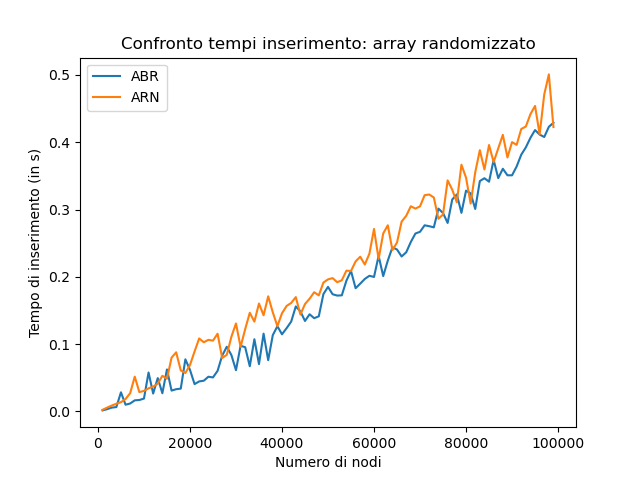
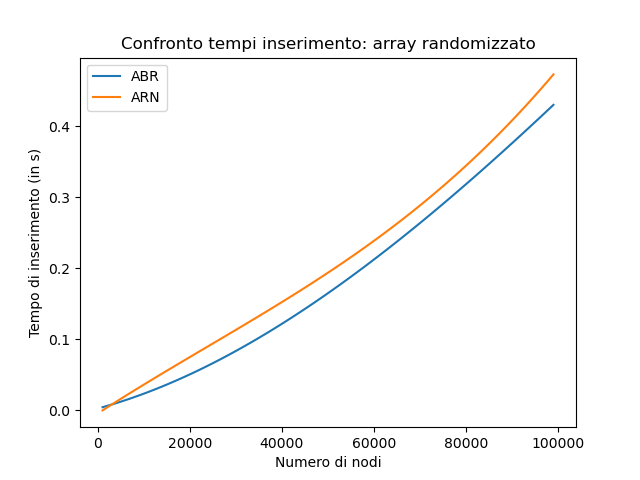
update test

diff --git a/src/test.py b/src/test.py
@@ -11,14 +11,14 @@ def insertion_test(t, keys, n):
     for j in range(n):
         t.insert(keys[j])
     end = timer()
-    return round(end - start, 8)
+    return round(end - start, 4)
 
 
 def search_test(t, key):
     start = timer()
     t.find(key)
     end = timer()
-    return round(end - start, 8)
+    return round(end - start, 6)
 
 
 def spline(x, y, p=2.0):  # implementazione bspline al fine di approssimare l'andamento dei grafici
@@ -36,17 +36,6 @@ def exp_moving_averages(array):
         ma.append(window_average)
     array = ma
     return array
-
-
-def moving_averages(array):  # implementazione media mobile cumulativa
-    i = 1
-    ma = []
-    cum_sum = np.cumsum(array)
-    while i <= len(array):
-        window_average = round(cum_sum[i - 1] / i, 2)  # finestra di calcolo della media
-        ma.append(window_average)
-        i += 1  # shift della finestra di uno a destra
-    return ma
 
 
 def test(shuffle=False, m=100, nn=100):
@@ -78,16 +67,12 @@ def test(shuffle=False, m=100, nn=100):
 
         insertion = exp_moving_averages(ins_time)
         insertion_rb = exp_moving_averages(ins_rb_time)
-        s = exp_moving_averages(search_time)
-        s_rb = exp_moving_averages(search_rb_time)
-        h = exp_moving_averages(height)
-        h_rb = exp_moving_averages(height_rb)
 
     x = np.arange(1, len(ins_time) + 1) * nn
 
     plot_1 = plt.figure(1)
-    plt.plot(x ,spline(x, insertion, 0.005))
-    plt.plot(x ,spline(x, insertion_rb, 0.005))
+    plt.plot(x, spline(x, insertion))
+    plt.plot(x, spline(x, insertion_rb))
     plt.xlabel("Numero di nodi")
     plt.ylabel("Tempo di inserimento (in s)")
     plt.legend(["ABR", "ARN"])
@@ -97,10 +82,10 @@ def test(shuffle=False, m=100, nn=100):
         plt.title("Confronto tempi inserimento: caso peggiore")
 
     plot_2 = plt.figure(2)
-    plt.plot(x, spline(x, s))
-    plt.plot(x, spline(x, s_rb))
+    plt.plot(x, spline(x, search_time))
+    plt.plot(x, spline(x, search_rb_time))
     plt.xlabel("Numero di nodi")
-    plt.ylabel("Tempo di ricerca (in millis)")
+    plt.ylabel("Tempo di ricerca (s)")
     plt.legend(["ABR", "ARN"])
     if shuffle:
         plt.title("Confronto tempi ricerca: array randomizzato")
@@ -108,8 +93,8 @@ def test(shuffle=False, m=100, nn=100):
         plt.title("Confronto tempi ricerca: caso peggiore")
 
     plot_3 = plt.figure(3)
-    plt.plot(x, spline(x, h))
-    plt.plot(x, spline(x, h_rb))
+    plt.plot(x, height)
+    plt.plot(x, height_rb)
     plt.xlabel("Numero di nodi")
     plt.ylabel("Altezza")
     plt.legend(["ABR", "ARN"])
@@ -119,14 +104,14 @@ def test(shuffle=False, m=100, nn=100):
         plt.title("Confronto altezze: caso peggiore")
 
     if shuffle:
-        plot_1.savefig('img/rand/ins_' + str(m*nn) +'.png')
-        plot_2.savefig('img/rand/s_' + str(m*nn)+'.png')
-        plot_3.savefig('img/rand/h_' + str(m*nn) +'.png')
+        plot_1.savefig('img/rand/ins_' + str(m * nn) + '.png')
+        plot_2.savefig('img/rand/s_' + str(m * nn) + '.png')
+        plot_3.savefig('img/rand/h_' + str(m * nn) + '.png')
 
     else:
-        plot_1.savefig('img/w_case/ins_' + str(m*nn) +'.png')
-        plot_2.savefig('img/w_case/s_' + str(m*nn) +'.png')
-        plot_3.savefig('img/w_case/h_' + str(m*nn) +'.png')
+        plot_1.savefig('img/w_case/ins_' + str(m * nn) + '.png')
+        plot_2.savefig('img/w_case/s_' + str(m * nn) + '.png')
+        plot_3.savefig('img/w_case/h_' + str(m * nn) + '.png')
 
     plt.clf()
     plot_1.clear()
